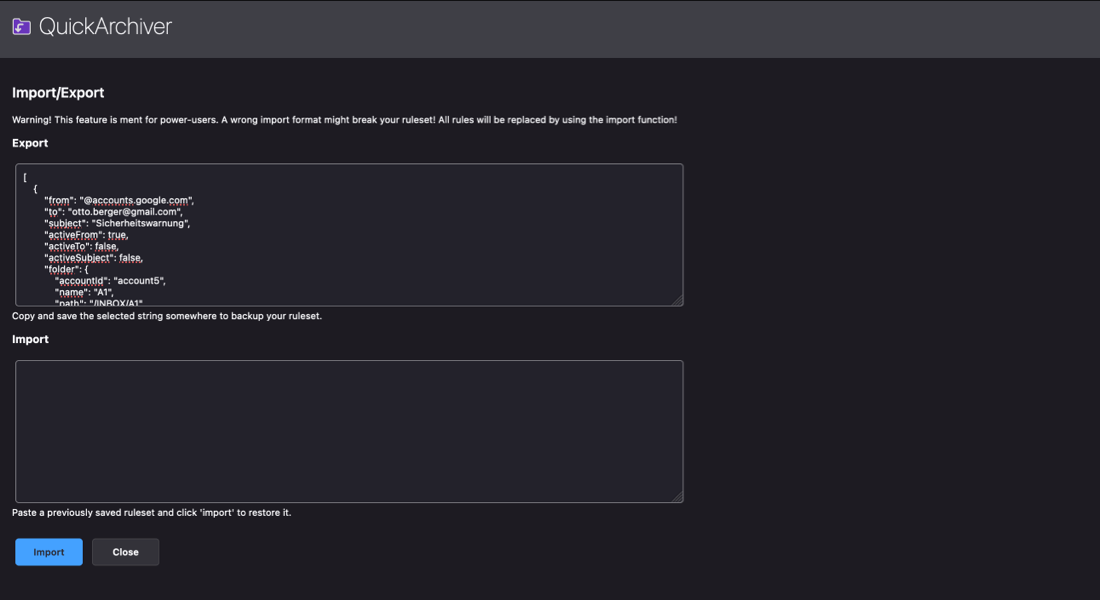
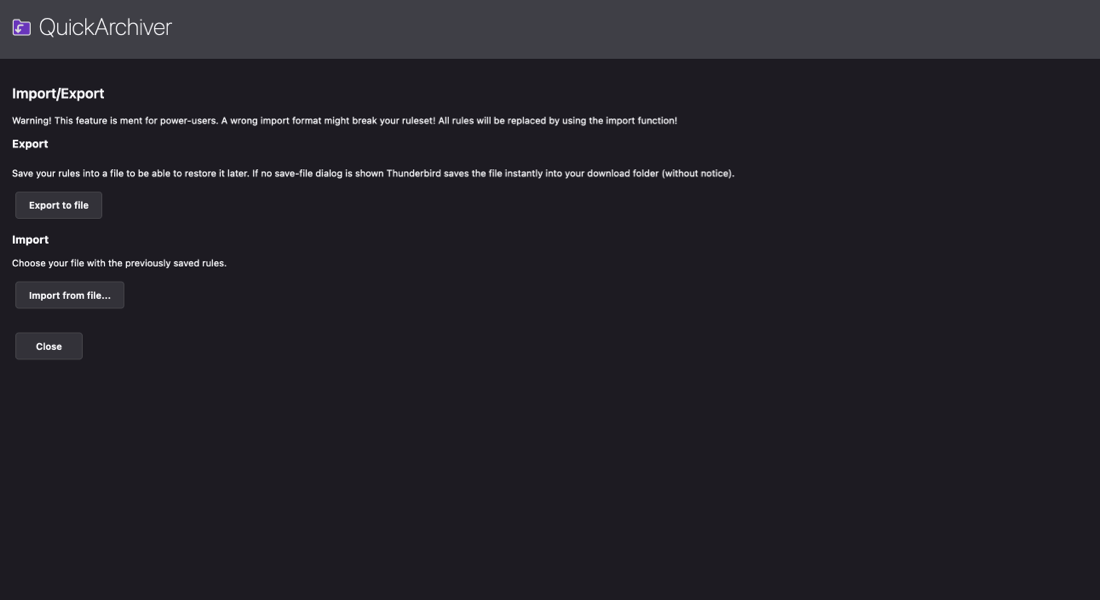
Switched import/export to file up/downloads

diff --git a/src/content/tab/tools.js b/src/content/tab/tools.js
@@ -20,34 +20,62 @@ async function onLoad() {
 
     document.getElementById("button-cancel").addEventListener("click", closeTab);
     document.getElementById("button-import").addEventListener("click", toolsImport);
-    document.getElementById("tools-export").addEventListener("click", selectAll);
+    document.getElementById("button-export").addEventListener("click", toolsExport);
+
+    document.getElementById("import-file").addEventListener("change", toolsImportFile);
 
     await messenger.runtime.sendMessage({
         command: "requestAllRules"
     });
 }
 
+function toolsImportFile() {
+
+    let reader = new FileReader();
+    reader.addEventListener(
+        "load",
+        async () => {
+
+            try {
+                let data = JSON.parse(reader.result);
+
+                if (!confirm(browser.i18n.getMessage("tab.tools.backup.import.message.confirm"))) {
+                    return false;
+                }
+
+                await messenger.runtime.sendMessage({
+                    command: "requestToolsImportRules",
+                    importData: data
+                });
+
+            } catch (e) {
+                alert(browser.i18n.getMessage("tab.tools.backup.import.message.parse_error"));
+            }
+        },
+        false,
+    );
+
+    let files = document.getElementById("import-file");
+    if (typeof (files.files) !== "undefined") {
+        reader.readAsText(files.files[0]);
+    }
+}
 
 
 async function toolsImport() {
+    document.getElementById("import-file").click();
+}
 
-    if (!confirm(browser.i18n.getMessage("tab.tools.backup.import.message.confirm"))) {
-        return false;
-    }
 
-    let text = document.getElementById("tools-import").value;
+async function toolsExport() {
 
-    try{
-        let data = JSON.parse(text);
+    let today = new Date();
+    let dateStr = today.toISOString();
+    dateStr = dateStr.replaceAll(":", "");
+    dateStr = dateStr.replaceAll("-", "");
+    dateStr = dateStr.substring(0, 15);
 
-        await messenger.runtime.sendMessage({
-            command: "requestToolsImportRules",
-            importData: data
-        });
-
-    } catch (e){
-        alert(browser.i18n.getMessage("tab.tools.backup.import.message.parse_error"));
-    }
+    saveAsFile(rules, "QuickArchiver-RulesExport-" + dateStr + ".json");
 }
 
 
@@ -55,16 +83,26 @@ async function closeTab() {
     window.close();
 }
 
-async function selectAll() {
-    this.select();
-}
-
-
 async function openTools() {
     await messenger.runtime.sendMessage({
         command: "requestOpenToolsTab"
     });
 }
+
+let saveAsFile = (function () {
+    let a = document.createElement("a");
+    a.style = "display:none";
+    document.body.appendChild(a);
+    return function (data, fileName) {
+        let json = JSON.stringify(data, null, 4),
+            blob = new Blob([json], {type: "octet/stream"}),
+            url = window.URL.createObjectURL(blob);
+        a.href = url;
+        a.download = fileName;
+        a.click();
+        window.URL.revokeObjectURL(url);
+    };
+}());
 
 messenger.runtime.onMessage.addListener(async (broadcastMessage) => {
 

diff --git a/src/content/tab/tools.html b/src/content/tab/tools.html
@@ -23,18 +23,18 @@
         <span data-i18n="tab.tools.backup.warning"></span>
 
         <h3 data-i18n="tab.tools.backup.export.headline"></h3>
-        <div>
-            <textarea id="tools-export"></textarea><br/>
-            <span data-i18n="tab.tools.backup.export.hint"></span>
+        <div class="action-buttons">
+            <p data-i18n="tab.tools.backup.export.hint"></p>
+            <button id="button-export" data-i18n="tab.tools.backup.button.export"></button>
         </div>
 
         <h3 data-i18n="tab.tools.backup.import.headline"></h3>
         <div>
-            <textarea id="tools-import"></textarea><br/>
-            <span data-i18n="tab.tools.backup.import.hint"></span>
+            <p data-i18n="tab.tools.backup.import.hint"></p>
+            <input id="import-file" type="file" style="display:none">
+            <button id="button-import" data-i18n="tab.tools.backup.button.import"></button>
         </div>
         <div class="action-buttons">
-            <button class="primary" id="button-import" data-i18n="tab.tools.backup.button.import"></button>
             <button id="button-cancel" data-i18n="tab.tools.button.cancel"></button>
         </div>
     </main>
